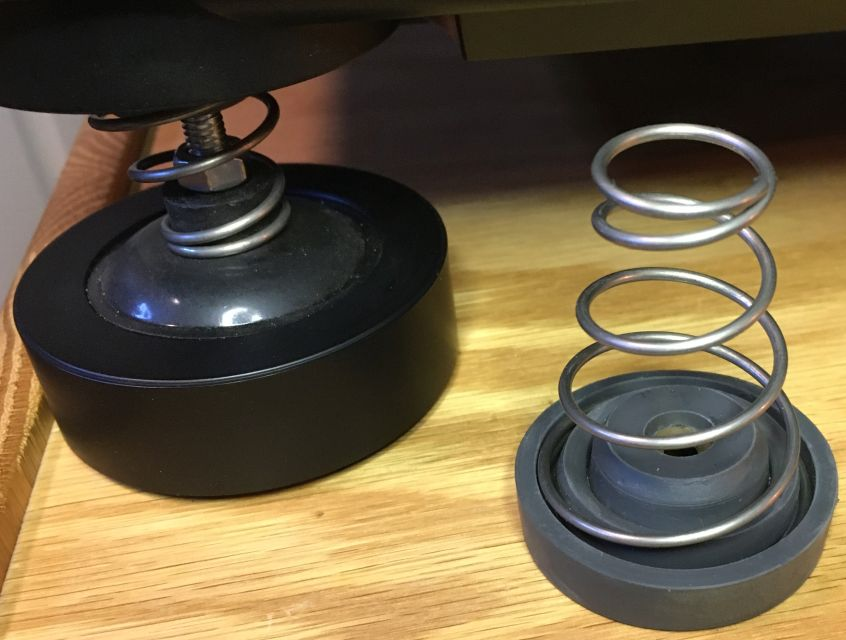
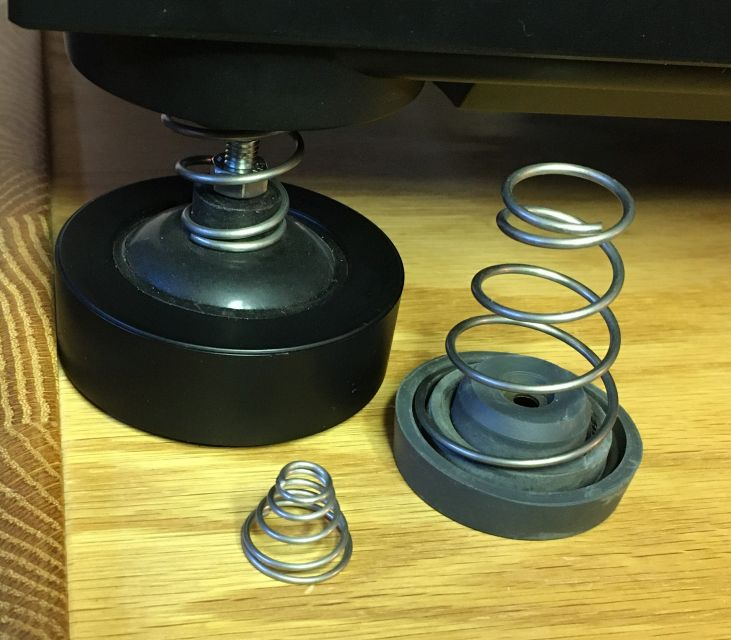
links, rewording and better BigSprings image

diff --git a/AT-LP140XP/index.htm b/AT-LP140XP/index.htm
@@ -3,24 +3,30 @@
 <title>AT-LP140XP microphonics, mats, cover, springs, lift</title>
 </head>
 <body bgcolor=#DDDDFF>
-<h3>AT-LP140XP microphonics, mats, covers</h3>
-<h4>nonslip mat</h4>
+<font size=+1>
+<h2>AT-LP140XP <a href="#plots">microphonics</a>,
+ <a href="#mat">mats</a>,
+ <a href="#cover">covers</a>,
+ <a href="#sprung">springs</a>,
+ <a href="#lift">lift</a>,
+ <a href="#sprung2">resprung</a></h2>
+<h3 id="mat">nonslip mat</h3>
 Seemingly, primary motivations for felt mats are reduced cost and facilitating DJ pitch bending and slip cueing.<br>
-On the other hand, my turntable mat wish list includes:
+Instead, my platter mat wish list includes:
 <ul compact>
 <li>good grip - speed stability cannot be ideal with slipping LPs
 <li>more thickness - 1.5mm felt mat provided e.g. with AT-LP140BX<br>
  wants vertical tracking angle at or below adjustment lower limit
 <li>minimize dirt and damage - felt attracts dirt and is hard to clean
-<li>LP disc vibration attenuation - including immediate reactions to needle tracing<br>
+<li>vibration attenuation - including immediate reactions to needle tracing<br>
  and ambient e.g. feedback from loudspeakers
 </ul>
 <p>
 While I eventually intend to measure frequency response sweeps from test records with different mats,<br>
  initial measurements are phono signals from a needle resting half-way thru an idle LP stimulated by loudspeaker frequency sweeps.<br>
-These measurements are confounded by loudspeaker response, room resonances, turntable platform rigidity and chassis isolation,<br> so <em>only interesting for <b>changes</b> in response</em>.
+These measurements are confounded by loudspeaker response, room resonances, turntable stand rigidity and chassis isolation,<br> so <em>only interesting for <b>changes</b> in response</em>.
 </p><p>
-In this case, the turntable platform is 20mm MDF standing on concrete slab with engineered flooring, so minimal "trampoline effects".<br>
+In this case, the turntable stand is 20mm MDF on engineered flooring over concrete slab, so minimal "trampoline effects".<br>
 Unlike traditional (e.g. belt-drive) turntables,<br>
 which typically have flat platter surfaces with LP contact determined by rubber mat ridges,<br>
 the AT-LP140BX platter has an edge lip with an abrupt surface recess reducing gradually towards the center,<br>
@@ -32,6 +38,7 @@ but (unless ribbed) risk driving mat debris into underside LP grooves.<br>
 As an expedient spacer for provided 1.5mm felt, a 295mm diameter mat was cut from tool box liner:<br>
 <img src="ToolMat.jpg"><br clear=all>.. which raises LPs 3mm.
 </p><p>
+<h3 id="plots">microphonics</h3>
 Using REW (Room EQ Wizard),
 felt pad cartridge signal measurements of loudspeaker sweeps indicate that<br>
 microphonics are generally comparable with cover down or removed,
@@ -63,41 +70,42 @@ Here is more evidence:<br>
 This compares felt over tool mat vs tool over felt, so arguably the same series impedance between platter and LP,<br>
  but note dips at both ~ 6 and 11Hz,<br>
 which suggest that the tool pad couples better to the LP, supposing that energy is being sinked from LP to platter.<br>
-<h4>Aftermarket cover?</h4>
+<h3 id="cover">Aftermarket cover?</h3>
 For clarity and before evaluating traditional mat alternatives,<br>
-measurements are wanted with more inert turntable stand and<br>
-a cover that surrounds the turntable and rests on that stand<br>
+measurements are wanted with better isolation, perhaps including<br>
+a cover that surrounds the turntable, not resting on the deck<br>
 rather than the included cover that couples to the plinth.<br>
 That sort of cover is seemingly wanted for most turntables lacking decoupling between platter and plinth...<br>
 These direct-drive "DJ" turntables are about 450x350mm,<br>
 while e.g. Thorens TD 160 plinth are about 480x390mm;<br>
 if covers of about TD 160 size were available at reasonable cost,<br>
 then one could construct an open-top box about 100mm high<br>
-in which to set a "DJ" table and e.g. attach Thorens cover hinges to the box.
+in which to set a sprung turntable and e.g. attach Thorens cover hinges to that box.
 
-<h4 id="sprung">Spring Suspension</h4>
-I would rather have a semi-automatic direct drive with spring suspension,
-which would have required getting lucky with an eBay Technics SL-1700MK2.<br>
-Instead, this Audio Technica has M6x2.0 threaded feet, so insert springs between them and the plinth.<br>
-Removing them and installing nuts threaded down to expose about 1/4 inch to engage the small end of these $8 conical springs from Amazon:<p>
+<h3 id="sprung">Spring Suspension</h3>
+I would prefer a semi-automatic direct drive with spring suspension,
+but that wants getting lucky e.g. finding a Technics SL-1700MK2.<br>
+Instead, this Audio Technica has M6x2.0 threaded feet, so inserted springs between them and its plinth.<br>
+Installing nuts threaded down to expose about 1/4 inch locates small ends of $8 conical springs from Amazon:<p>
 <a href="https://www.amazon.com/gp/product/B0085YV9YE"><img align=left src="https://images-na.ssl-images-amazon.com/images/I/51WhxdzPULL._SY90_.jpg"></a> <img src="sprung.png"></p>
-Slightly taller and stiffer would be better...<br>
-Then, using a hole saw to cut four 2.25 inch diameter pucks from 3/8" plywood<br>
-with 1/8" deep spring pockets created using a 3/4" spade bit<br>
-and a 3/8" center bore to locate the conical spring upper ends
-in the turntable feet pockets. <br>
+Taller and softer springs would be better...<br>
+A hole saw cut four 2.25 inch diameter pucks from 3/8" plywood that fit plinth feet pockets,<br>
+with 1/8" deep spring pockets made by a 3/4" spade bit<br>
+and a 3/8" center bore to clear threaded feet ends.
+<br>
 <video width="640" height="480" controls="controls">
 <source src="SprungAT-LP140XP.m4v" type="video/mp4">
 </video>
-<h4 id="lift">Tonearm Lift</h4>
+<h3 id="lift">Tonearm Lift</h3>
 If not semi-automatic, then at least tonearm lift at runout is wanted.<br>  The Q UP lift on my Thorens was much less expensive back in the day,<br>
-and no commercially available lift fits the AT-LP140XP or other DJ style tables.<br>
-Fortunately, the AT-LP140XP has a steel deck, so a lift can be located using
+and no commercially available lift fits an AT-LP140XP or other DJ style turntables.<br>
+The AT-LP140XP has a steel deck, so a lift can be located by
+
 magnetic squares.<p>  Flat head screws are hot-glued to a pair of those squares,<br>
 <img src="HotGlue.jpg"><br clear=all>
 and a pair of nuts on each screw anchor either end of about 7 inches of 14AWG copper wire.</p>
 Another 2 inches of wire are wrapped and soldered at right angle about 2.25 inches from one end.<br>  A pendulum is wrapped around one bent arm of that cross piece,<br>
-with enough random nuts hot-glued to one end of the pendulum that just overbalances the tonearm at the other end.<br> 
+with enough random nuts hot-glued at one pendulum end to just overbalance the tonearm at the other end.<br> 
 <img src="pendulum.jpg" align=left><br clear=all>
 <p>
 The other cross piece arm is bent to hold the pendulum's weighted end just over center,<br>
@@ -110,18 +118,19 @@ so that the tonearm can easily topple it:<br>
 </video>
 </p>
 
-<h4 id="sprung2">Spring Suspension MKII</h4>
+<h3 id="sprung2">Spring Suspension MKII</h3>
 Springs from McMaster-Carr: <a href="https://www.mcmaster.com/1692k42"><img align=top src="BigSprings.jpg"></a><br clear=all>
 Their spring rate is spec'd at less than half that of relatively tiny springs from Amazon,
 which were probably overrated.<br>
 Upper spring seats are old Pioneer PL-950 feet.<br>
-The additional free travel has no benefit in this application,<br>
-but the table is now much less affected by side impacts to the supporting cabinet.<br>
+Increased spring travel has no benefit in this application,<br>
+but the LP140XP is now much less affected by side impacts to its stand.<br>
 Springs could be still softer e.g. 5 instead of 6.5 lb/in: <a href="https://www.mcmaster.com/1692k4">https://www.mcmaster.com/1692k4</a>
-<br>Those would re-enable height adjustment by turning nuts on threaded feet.<br>
+<br>Those would re-enable height adjustment by turning nuts on threaded feet<br>
+ and further reduce plinth resonant frequency:<br>
 <video width="960" height="720" controls="controls">
 <source src="sprungMKII.m4v" type="video/mp4">
 </video>
-
+</font>
 </body>
 </html>
